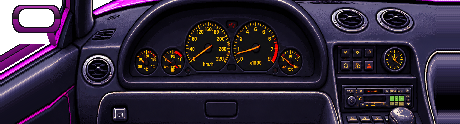
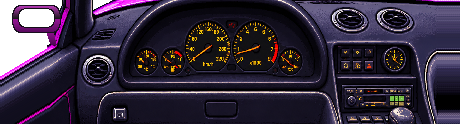
Cabine da Diablo: sai a placa roxa solta embaixo do retrovisor esquerdo (fica soleira e braço); na viatura o friso da soleira passa a ser repintado (v0.29.4)
Claude-Session: https://claude.ai/code/session_01MLD9VR7gkmY4w6a9beZcp6

Changed region(s): [[0.0, 0.3387, 0.1217, 0.6048]]

diff --git a/tools/ref/diablo_door_fix.py b/tools/ref/diablo_door_fix.py
@@ -1,0 +1,46 @@
+"""Cabine do Toro V12 (Diablo): tira a placa roxa chapada que sobrava embaixo do retrovisor esquerdo,
+acima da soleira (resto da lataria de fora da arte, separado da soleira por uma fresta: parecia um
+pedaço de carroceria solto). Fica só a soleira (o friso magenta) e o braço do retrovisor; o resto é
+janela. Rodar depois de diablo_cockpit.py. Também vale para a viatura (usa a mesma cabine).
+Uso: python3 tools/ref/diablo_door_fix.py <src/assets/cockpit>
+"""
+import os
+import sys
+
+import numpy as np
+from PIL import Image
+
+TOP = 76  # linhas do topo (coordenadas empilhadas topo + painel)
+
+
+def main():
+    d = sys.argv[1]
+    tp, dp = os.path.join(d, 'diablo-top.png'), os.path.join(d, 'diablo-dash.png')
+    t, a = np.array(Image.open(tp).convert('RGBA')), np.array(Image.open(dp).convert('RGBA'))
+    st = np.concatenate([t, a], axis=0)
+    n = 0
+    for x in range(0, 47):
+        # alto da soleira nesta coluna: o primeiro pixel magenta vivo descendo (o friso)
+        col = st[110:160, x].astype(int)
+        vivid = np.nonzero((col[:, 3] > 0) & (col[:, 0] > 200) & (col[:, 2] > 200) & (col[:, 1] < 140))[0]
+        y1 = 110 + (vivid[0] if len(vivid) else int(11 + (46 - x) * 0.5))
+        sel = st[110:y1, x, 3] > 0
+        n += int(sel.sum())
+        st[110:y1, x][sel] = 0
+    Image.fromarray(st[:TOP], 'RGBA').save(tp, optimize=True)
+    Image.fromarray(st[TOP:], 'RGBA').save(dp, optimize=True)
+    # máscara de pintura: o friso magenta da soleira na parte construída à esquerda também é lataria
+    # (na viatura, que repinta a cabine, a ponta ficava magenta)
+    mp = os.path.join(d, 'diablo-dash-mask.png')
+    if os.path.exists(mp):
+        im = Image.open(mp)
+        m = np.array(im.convert('L'))
+        reg = a2 = st[TOP:, :110].astype(int)
+        viv = (reg[..., 3] > 0) & (reg[..., 0] > 150) & (reg[..., 2] > 150) & (reg[..., 1] < reg[..., 0] * 0.6)
+        m[:, :110][viv] = 255
+        Image.fromarray(m, 'L').convert(im.mode).save(mp, optimize=True)
+    print('placa removida:', n, 'px')
+
+
+if __name__ == '__main__':
+    main()
